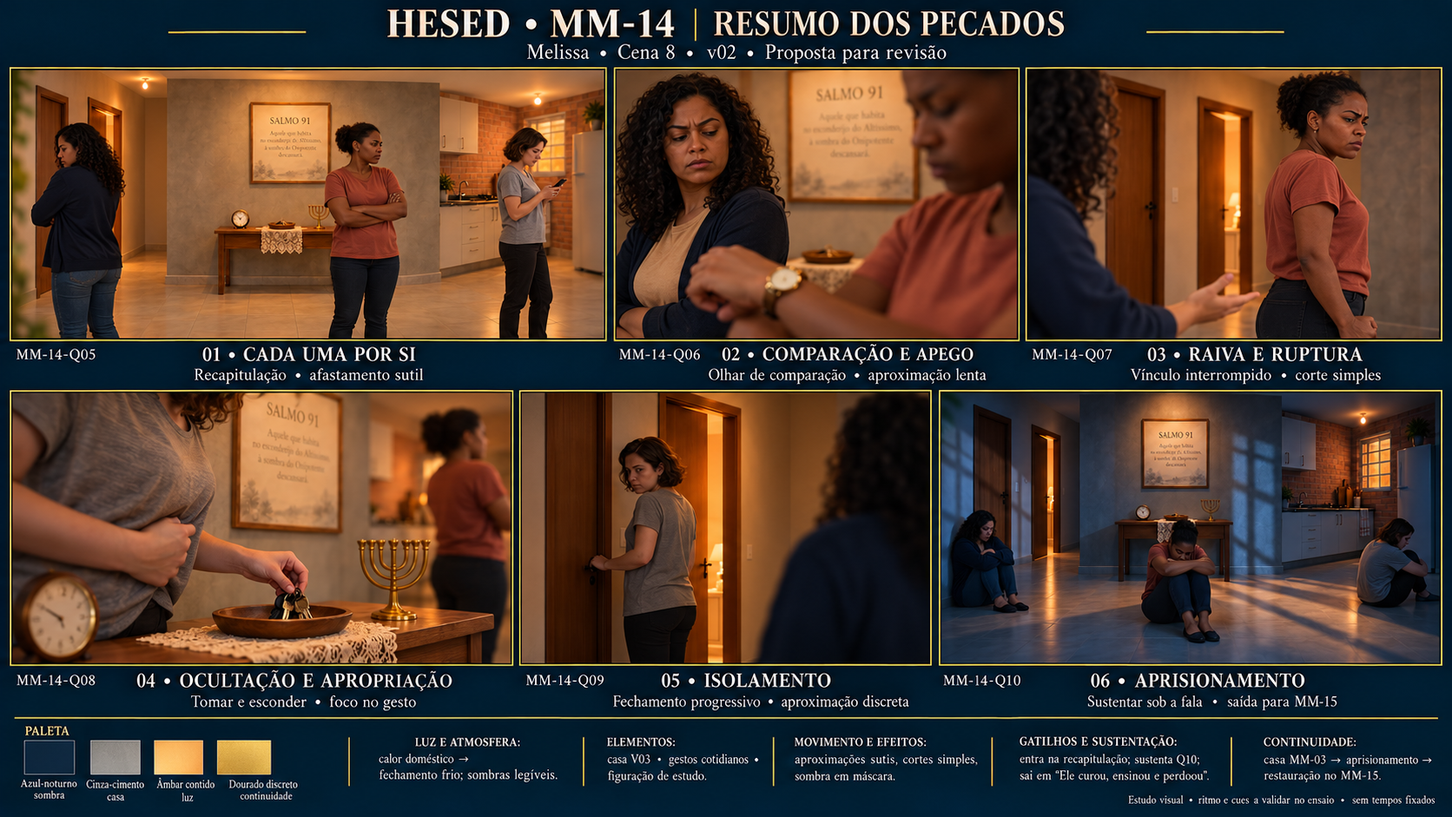
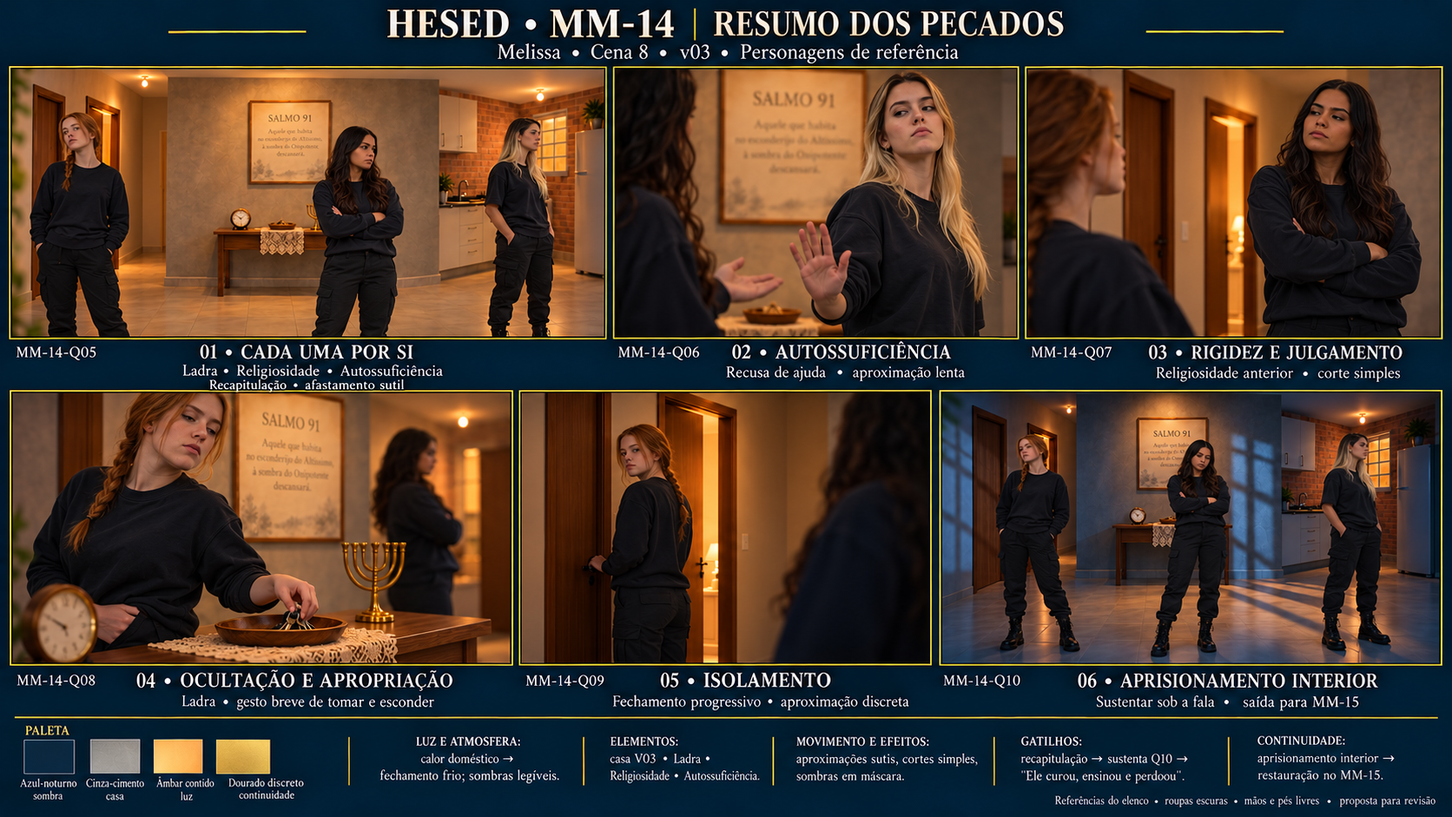
Atualiza MM-14 com referencias das tres personagens sem contencao

diff --git a/storyboards/briefings-dos-quadros.md b/storyboards/briefings-dos-quadros.md
@@ -878,6 +878,20 @@ Os prompts abaixo já repetem a instrução de imagem limpa; ao levá-los à fer
 
 ## MM-14 · Reformulação v02 · seis quadros · 24/10/2026
 
+### Atualização vigente · v03 · personagens de referência · D-45
+
+**Consulta prévia:** guia de construção e os seis briefings Q05–Q10 abaixo, casa V03, briefing MM-14, roteiro Cena 8, Bíblia §§1.4/3/5.2 e alinhamento das fontes. Mantidos função, gatilhos, paleta, cenário, controle por fala e entrega MM-15. A v02 recebeu comentário positivo parcial e pedido de troca das figuras; não há aprovação integral presumida.
+
+**Referências recebidas:** quatro imagens no chat, sem caminhos locais ou nomes de arquivo acessíveis nesta etapa. O usuário identifica o retrato 1 como Ladra (ruiva), 2 como Religiosidade (cabelo longo escuro), 3 como Autossuficiência (loira). Retratos regem rosto/cabelo; imagem coletiva rege roupa, corpo/biotipo e altura relativa. Não inventar medidas. A quarta imagem NÃO fornece cenário ou objetos de contenção. Mãos e pés sempre livres, sem algemas ou correntes, na casa V03. Figurino escuro conforme pedido atual substitui a proposta genérica de roupas da v02.
+
+**Função/palco/telão:** recapitulação simbólica da condição anterior; a conversa atual segue no palco. Personagens no telão agora expressamente solicitadas pelo usuário. Não transferir a postura moralista da lembrança para a narradora atual quebrantada.
+
+**Revisão dos seis briefings antes de gerar:** Q05 preserva plano geral e afastamento, agora com Ladra à esquerda, Religiosidade ao centro e Autossuficiência à direita. Q06 passa de comparação/relógio a **Autossuficiência**, em plano médio da loira recusando ajuda com palma aberta e queixo elevado. Q07 passa de raiva a **Rigidez e julgamento**, Religiosidade de braços cruzados e postura moralista contida como memória anterior, sem confundir com Ódio. Q08 mantém ocultação/apropriação, agora protagonizada pela Ladra ruiva retirando chaves da bandejinha; incluir rosto no plano para reconhecimento. Q09 mantém corte de contato na porta, agora pela Ladra. Q10 conserva o fechamento frio e as três separadas na casa, porém **em pé, mãos e pés livres**, sem recolhimento no chão ou prisão literal; título **Aprisionamento interior**. Mesmos IDs, ordem e técnicas de animação da v02; gestos são propostas e não falas adicionais ao roteiro.
+
+**Composição/luz/continuidade/restrições comuns:** conservar a geografia V03 e objetos do aparador, luz quente → fria com sombras legíveis, rostos/roupa/altura/biotipo consistentes entre planos; sem cenário de prisão, contenção, violência, novas personagens ou restauração antecipada. No Q10, sombras arquitetônicas simbólicas, não barras. Não retratar sofrimento isoladamente como pecado. Bases individuais limpas, animação e tempos continuam pendentes.
+
+**Prompt efetivo preparado:** [prompt-prancha-v03.txt](MM-14/prompt-prancha-v03.txt). Ferramenta image_gen.imagegen, fundo opaco, cinco imagens recentes para abranger a v02 e as quatro referências enviadas; sem combinar referência por caminho local. **Resultado v03:** [prancha corrente](<MM-14/STB MM14.png>), PNG 1672 × 941, 2063684 bytes, original `/workspace/generated_images/exec-d38ba494-cb04-44a3-a5c3-2edd81524d9e.png`. Chamada efetiva com `num_last_images_to_include=5`, fundo opaco, sem referência por caminho local. Referências realmente usadas: v02 + três retratos e coletiva do chat. **Inspeção:** seis quadros; roupas escuras e rostos/cabelos correspondentes às referências; sem algemas/correntes; Q10 em pé na casa. Fidelidade fina de rosto e altura depende de revisão do usuário, sem medidas reais fornecidas; algumas mãos ficam nos bolsos; leitura de chaves permanece simbólica/ambígua. Sem aprovação presumida, animação, bases individuais ou teste LED. Registro aplicável a Q05–Q10; v02 arquivada em historico/v02 sem alterar bytes. As descrições v02 abaixo permanecem histórico do desenvolvimento; esta atualização prevalece no elenco, figurino e ações especificadas.
+
 **Pedido confirmado (D-44):** refazer do zero, relendo briefing e roteiro, ampliar de quatro para seis quadros. A v01 continua recusada. Sua arte, elenco e cenário não são referências da v02. O pedido autoriza a reformulação; não aprova antecipadamente as escolhas abaixo.
 
 **Função visual:** montagem curta simbólica sob fala variável. **Palco:** Religiosidade e demais atrizes conduzem a conversa na casa física. **Telão:** gestos cotidianos sintetizam comportamento destrutivo e fechamento; figuras humanas opcionais pelo briefing, adotadas como proposta de estudo, sem duplicar a conversa nem exigir filmagem das dez atrizes.
@@ -906,7 +920,7 @@ Os prompts abaixo já repetem a instrução de imagem limpa; ao levá-los à fer
 - **Prompt da imagem:** trecho correspondente de [prompt-prancha-v02.txt](MM-14/prompt-prancha-v02.txt), com contrato comum; bases individuais exigem prompt limpo e piloto verificado.
 - **Referências usadas:** casa V03 acima, além das fontes textuais; nenhum retrato de elenco.
 - **Tempo:** a ajustar à fala e ao ensaio; sem duração medida.
-- **Arquivo/versão/feedback:** incluído na [prancha v02](<MM-14/STB MM14.png>), PNG 1672 × 941, 2.043.020 bytes; inspeção e limitações no registro abaixo. Base individual não produzida.
+- **Arquivo/versão/feedback:** incluído na [prancha v02](<MM-14/historico/v02/STB MM14.png>), PNG 1672 × 941, 2.043.020 bytes; inspeção e limitações no registro abaixo. Base individual não produzida.
 
 ### MM-14-Q06 · Comparação e apego
 
@@ -920,7 +934,7 @@ Os prompts abaixo já repetem a instrução de imagem limpa; ao levá-los à fer
 - **Prompt da imagem:** trecho correspondente de [prompt-prancha-v02.txt](MM-14/prompt-prancha-v02.txt), com contrato comum; bases individuais exigem prompt limpo e piloto verificado.
 - **Referências usadas:** casa V03 acima, além das fontes textuais; nenhum retrato de elenco.
 - **Tempo:** a ajustar à fala e ao ensaio; sem duração medida.
-- **Arquivo/versão/feedback:** incluído na [prancha v02](<MM-14/STB MM14.png>), PNG 1672 × 941, 2.043.020 bytes; inspeção e limitações no registro abaixo. Base individual não produzida.
+- **Arquivo/versão/feedback:** incluído na [prancha v02](<MM-14/historico/v02/STB MM14.png>), PNG 1672 × 941, 2.043.020 bytes; inspeção e limitações no registro abaixo. Base individual não produzida.
 
 ### MM-14-Q07 · Raiva e ruptura
 
@@ -934,7 +948,7 @@ Os prompts abaixo já repetem a instrução de imagem limpa; ao levá-los à fer
 - **Prompt da imagem:** trecho correspondente de [prompt-prancha-v02.txt](MM-14/prompt-prancha-v02.txt), com contrato comum; bases individuais exigem prompt limpo e piloto verificado.
 - **Referências usadas:** casa V03 acima, além das fontes textuais; nenhum retrato de elenco.
 - **Tempo:** a ajustar à fala e ao ensaio; sem duração medida.
-- **Arquivo/versão/feedback:** incluído na [prancha v02](<MM-14/STB MM14.png>), PNG 1672 × 941, 2.043.020 bytes; inspeção e limitações no registro abaixo. Base individual não produzida.
+- **Arquivo/versão/feedback:** incluído na [prancha v02](<MM-14/historico/v02/STB MM14.png>), PNG 1672 × 941, 2.043.020 bytes; inspeção e limitações no registro abaixo. Base individual não produzida.
 
 ### MM-14-Q08 · Ocultação e apropriação
 
@@ -948,7 +962,7 @@ Os prompts abaixo já repetem a instrução de imagem limpa; ao levá-los à fer
 - **Prompt da imagem:** trecho correspondente de [prompt-prancha-v02.txt](MM-14/prompt-prancha-v02.txt), com contrato comum; bases individuais exigem prompt limpo e piloto verificado.
 - **Referências usadas:** casa V03 acima, além das fontes textuais; nenhum retrato de elenco.
 - **Tempo:** a ajustar à fala e ao ensaio; sem duração medida.
-- **Arquivo/versão/feedback:** incluído na [prancha v02](<MM-14/STB MM14.png>), PNG 1672 × 941, 2.043.020 bytes; inspeção e limitações no registro abaixo. Base individual não produzida.
+- **Arquivo/versão/feedback:** incluído na [prancha v02](<MM-14/historico/v02/STB MM14.png>), PNG 1672 × 941, 2.043.020 bytes; inspeção e limitações no registro abaixo. Base individual não produzida.
 
 ### MM-14-Q09 · Isolamento
 
@@ -962,7 +976,7 @@ Os prompts abaixo já repetem a instrução de imagem limpa; ao levá-los à fer
 - **Prompt da imagem:** trecho correspondente de [prompt-prancha-v02.txt](MM-14/prompt-prancha-v02.txt), com contrato comum; bases individuais exigem prompt limpo e piloto verificado.
 - **Referências usadas:** casa V03 acima, além das fontes textuais; nenhum retrato de elenco.
 - **Tempo:** a ajustar à fala e ao ensaio; sem duração medida.
-- **Arquivo/versão/feedback:** incluído na [prancha v02](<MM-14/STB MM14.png>), PNG 1672 × 941, 2.043.020 bytes; inspeção e limitações no registro abaixo. Base individual não produzida.
+- **Arquivo/versão/feedback:** incluído na [prancha v02](<MM-14/historico/v02/STB MM14.png>), PNG 1672 × 941, 2.043.020 bytes; inspeção e limitações no registro abaixo. Base individual não produzida.
 
 ### MM-14-Q10 · Aprisionamento
 
@@ -976,14 +990,14 @@ Os prompts abaixo já repetem a instrução de imagem limpa; ao levá-los à fer
 - **Prompt da imagem:** trecho correspondente de [prompt-prancha-v02.txt](MM-14/prompt-prancha-v02.txt), com contrato comum; bases individuais exigem prompt limpo e piloto verificado.
 - **Referências usadas:** casa V03 acima, além das fontes textuais; nenhum retrato de elenco.
 - **Tempo:** a ajustar à fala e ao ensaio; sem duração medida.
-- **Arquivo/versão/feedback:** incluído na [prancha v02](<MM-14/STB MM14.png>), PNG 1672 × 941, 2.043.020 bytes; inspeção e limitações no registro abaixo. Base individual não produzida.
+- **Arquivo/versão/feedback:** incluído na [prancha v02](<MM-14/historico/v02/STB MM14.png>), PNG 1672 × 941, 2.043.020 bytes; inspeção e limitações no registro abaixo. Base individual não produzida.
 
 ### Registro de geração · MM-14 v02
 
 - **Data/executor:** 24/10/2026 · Codex, a pedido do usuário.
 - **Entrega:** prancha de planejamento dos seis estados Q05–Q10, não vídeo nem bases individuais.
 - **Ferramenta planejada:** image_gen.imagegen, fundo opaco, referência local da casa V03; prompt integral salvo antes da chamada.
-- **Resultado real:** [STB MM14.png](<MM-14/STB MM14.png>), PNG 1672 × 941, 2.043.020 bytes. Original preservado em `/workspace/generated_images/exec-c3d42474-93b9-4264-9b6f-da54b5fa9c29.png`; cópia nativa no repositório, sem conversão. Não é 4K nem base individual.
+- **Resultado real:** [STB MM14.png](<MM-14/historico/v02/STB MM14.png>), PNG 1672 × 941, 2.043.020 bytes. Original preservado em `/workspace/generated_images/exec-c3d42474-93b9-4264-9b6f-da54b5fa9c29.png`; cópia nativa no repositório, sem conversão. Não é 4K nem base individual.
 - **Chamada efetiva:** `image_gen.imagegen`, `transparent_background=false`, `referenced_image_paths=["/workspace/Musical-Hesed-GET/storyboards/MM-03/STB MM03.jpg"]`; prompt integral em [prompt-prancha-v02.txt](MM-14/prompt-prancha-v02.txt), sem a prancha recusada como referência.
 - **Inspeção visual pelo Codex:** seis painéis, IDs Q05–Q10 e rótulos editoriais 01–06 corretos; paleta com amostras, luz, elementos, movimento, gatilhos e continuidade legíveis. Casa e três figurinos reconhecíveis; progressão quente → fria, sem correntes/grades reais. Q06 enfatiza olhar para relógio de outra pessoa, sem reproduzir exatamente o gesto de segurar o próprio pulso. Q09 mostra olhar de volta antes do fechamento. Q10 usa três mulheres sentadas recolhidas, solução gerada que precisa ser lida junto da progressão de ações; não interpretar sofrimento isoladamente como pecado. Luzes quentes residuais e pequenas diferenças de escala/arquitetura exigem fixar base única antes de animação definitiva; esta prancha não comprova continuidade métrica.
 - **Leitura simbólica a revisar:** tirar chaves de bandeja doméstica é ambíguo sem contexto; o quadro propõe tomar/ocultar, não comprova furto. A leitura à distância e o contraste com MM-15 precisam de direção e ensaio.

diff --git a/storyboards/MM-14/README.md b/storyboards/MM-14/README.md
@@ -1,10 +1,10 @@
 # Storyboard · MM-14 · Resumo dos pecados
 
-**v02 · seis quadros · 24/10/2026 · proposta para revisão (D-44).** Refeito do zero após releitura do briefing, roteiro e Bíblia de Produção, com a casa V03 como referência visual. A v01 permanece recusada e não foi usada como referência artística.
+**v03 · seis quadros · 24/10/2026 · proposta para revisão (D-44/D-45).** Substitui a figuração genérica da v02 por Ladra, Religiosidade e Autossuficiência com as referências enviadas pelo usuário. A imagem coletiva na prisão serve somente à roupa, corpo e altura: a montagem ocorre na casa V03, com mãos e pés livres, sem algemas ou correntes.
 
-![MM-14 v02 — seis quadros](<STB MM14.png>)
+![MM-14 v03 — personagens de referência](<STB MM14.png>)
 
-[Prancha nativa](<STB MM14.png>) · [Prompt efetivo](prompt-prancha-v02.txt) · [Contrato por quadro e inspeção](../briefings-dos-quadros.md#mm-14--reformulação-v02--seis-quadros--24102026)
+[Prancha nativa](<STB MM14.png>) · [Prompt efetivo](prompt-prancha-v03.txt) · [Contrato por quadro e inspeção](../briefings-dos-quadros.md#mm-14--reformulação-v02--seis-quadros--24102026)
 
 | Campo | Definição |
 | --- | --- |
@@ -23,12 +23,12 @@ Os rótulos 01–06 indicam a ordem desta prancha. Para preservar o histórico, 
 
 | Ordem / ID | Imagem e função | Movimento / operação proposta |
 | --- | --- | --- |
-| 01 · MM-14-Q05 | Cada uma por si: três mulheres genéricas na mesma casa, sem contato entre si | Aproximação sutil na recapitulação |
-| 02 · MM-14-Q06 | Comparação e apego: olhar dirigido ao relógio de outra pessoa | Aproximação lenta, sem glamour do objeto |
-| 03 · MM-14-Q07 | Raiva e ruptura: punho contido e recusa de uma mão aberta | Corte simples; sem agressão |
-| 04 · MM-14-Q08 | Ocultação e apropriação: tomar chaves da bandeja e esconder o gesto | Foco no gesto; metáfora a revisar, sem afirmar furto inequívoco |
-| 05 · MM-14-Q09 | Isolamento: corpo na porta, interrompendo contato | Aproximação discreta; porta ainda entreaberta |
-| 06 · MM-14-Q10 | Aprisionamento: figuras separadas, sombras alongadas na casa | Sustentar sob a fala intermediária; sair pelo gatilho para MM-15 |
+| 01 · MM-14-Q05 | Cada uma por si: Ladra, Religiosidade e Autossuficiência na mesma casa, sem contato entre si | Aproximação sutil na recapitulação |
+| 02 · MM-14-Q06 | Autossuficiência: a personagem loira recusa ajuda com a palma aberta | Aproximação lenta, gesto de independência orgulhosa |
+| 03 · MM-14-Q07 | Rigidez e julgamento: Religiosidade de braços cruzados, lembrada em sua postura anterior | Corte simples; sem agressão ou confusão com a narradora atual |
+| 04 · MM-14-Q08 | Ocultação e apropriação: Ladra ruiva toma chaves da bandeja | Foco no gesto; metáfora a revisar, sem afirmar furto inequívoco |
+| 05 · MM-14-Q09 | Isolamento: Ladra junto à porta, interrompendo contato | Aproximação discreta; porta ainda entreaberta |
+| 06 · MM-14-Q10 | Aprisionamento interior: as três em pé, livres fisicamente, sombras alongadas na casa | Sustentar sob a fala intermediária; sair pelo gatilho para MM-15 |
 
 Não prolongar a fala para acomodar seis quadros. A duração e os cortes serão ajustados no ensaio. Q10 sustenta inclusive a menção a Jesus bebê, sem iniciar outra sequência ou antecipar restauração.
 
@@ -37,18 +37,20 @@ Não prolongar a fala para acomodar seis quadros. A duração e os cortes serão
 - **Paleta:** azul-noturno nas sombras, cinza-cimento na casa, âmbar contido na luz e dourado discreto nos objetos; amostras visíveis na prancha.
 - **Luz/atmosfera:** calor doméstico inicial → fechamento frio, com leitura nas sombras e calor residual. A restauração pertence à MM-15.
 - **Elementos:** casa V03, duas portas à esquerda, aparador central e copa à direita; relógio/bandejinha sobre renda/menorá preservados. Sem mesa ou sofá novos no LED. Salmo 91 e menorá são continuidade doméstica, sem associação à culpa.
-- **Figuração:** três mulheres adultas genéricas de estudo; identidade e figurino não aprovados. A conversa e as atrizes permanecem no palco; não se presume filmagem ou retrato do elenco.
+- **Personagens:** retrato 1 = Ladra ruiva; retrato 2 = Religiosidade de cabelos longos escuros; retrato 3 = Autossuficiência loira. Rostos conforme retratos; roupas escuras, biotipo e altura conforme imagem coletiva. Sem cenário prisional ou contenção. A conversa atual permanece no palco; os quadros representam a condição anterior recapitulada, sem filmagem de elenco realizada.
 - **Movimento/efeitos:** aproximações leves, cortes simples e máscaras de sombra; animação e loop final ainda não executados ou testados.
 - **Costura:** alinhar com Lucas o último estado, cor e velocidade antes da produção de MM-15; primeiro frame de MM-15 não fornecido.
 
 ## Registro e revisão
 
-Gerada por `image_gen.imagegen` usando somente a [casa V03](<../MM-03/STB MM03.jpg>) como referência visual e o prompt salvo. PNG nativo **1672 × 941**, **2.043.020 bytes**. É prancha de planejamento, não base 4K ou vídeo. Original da ferramenta preservado em `/workspace/generated_images/exec-c3d42474-93b9-4264-9b6f-da54b5fa9c29.png`.
+Gerada por `image_gen.imagegen`, com as cinco imagens recentes do chat (prancha v02 e quatro referências do usuário), `num_last_images_to_include=5`, fundo opaco e [prompt efetivo](prompt-prancha-v03.txt). As referências enviadas estão no chat, sem caminhos locais disponíveis. PNG nativo **1672 × 941**, **2,063,684 bytes**. Não é base individual 4K ou vídeo. Original preservado em `/workspace/generated_images/exec-d38ba494-cb04-44a3-a5c3-2edd81524d9e.png`.
 
-Inspeção pelo Codex: seis painéis distintos, IDs e blocos de direção legíveis, figurinos reconhecíveis e fechamento de cor visível. Pequenas diferenças arquitetônicas e de escala precisam de base única na produção definitiva. Q06/Q09 variam os gestos previstos; Q08 tem leitura simbólica ambígua; Q10 mostra recolhimento que deve ser entendido no arco de ações, sem tratar sofrimento ou solidão por si sós como pecado. Conferir esses pontos com a direção e no telão.
+Inspeção pelo Codex: seis painéis com as três personagens, cabelos/rostos reconhecíveis em relação às referências, roupa escura consistente e ausência de algemas/correntes. Q10 mostra as três em pé, botas sem contenção e sombras na casa; Q06 recusa de ajuda, Q07 postura rígida, Q08 gesto da Ladra. As alturas relativas e a fidelidade dos rostos precisam da avaliação do usuário; uma prancha gerada não comprova medidas corporais. Alguns enquadramentos ocultam mãos nos bolsos, sem contenção visível. A leitura simbólica de retirar chaves continua ambígua sem contexto. Conferir continuidade arquitetônica nas bases definitivas e cor/cues com Lucas.
 
 Sem bases individuais, alpha, envio ao Drive ou teste LED. P-01/P-13/P-15 continuam abertas. Avisar Melissa e Lucas sobre a nova proposta para alinhar a passagem; nenhuma mensagem enviada pelo assistente.
 
-## Histórico recusado
+## Histórico
+
+[Prancha v02](<historico/v02/STB MM14.png>) · [Ficha v02](historico-v02.md), preservadas após comentário positivo parcial e pedido de troca de personagens, sem aprovação integral.
 
 [Prancha v01](<historico/v01/STB MM14.jpg>) preservada sem alterar os bytes · [Ficha histórica](historico-v01.md) · [Prompt v01](prompt-prancha-v01.txt). Não usar como referência de casa, elenco ou próxima revisão. A autorização de refazer não constitui aprovação da v02.

diff --git a/storyboards/MM-14/historico-v02.md b/storyboards/MM-14/historico-v02.md
@@ -1,0 +1,54 @@
+# Storyboard · MM-14 · Resumo dos pecados
+
+**v02 · seis quadros · 24/10/2026 · proposta para revisão (D-44).** Refeito do zero após releitura do briefing, roteiro e Bíblia de Produção, com a casa V03 como referência visual. A v01 permanece recusada e não foi usada como referência artística.
+
+![MM-14 v02 — seis quadros](<historico/v02/STB MM14.png>)
+
+[Prancha nativa](<historico/v02/STB MM14.png>) · [Prompt efetivo](prompt-prancha-v02.txt) · [Contrato por quadro e inspeção](../briefings-dos-quadros.md#mm-14--reformulação-v02--seis-quadros--24102026)
+
+| Campo | Definição |
+| --- | --- |
+| Responsável | Melissa |
+| Cena / função | 8 · Bloco IV · montagem curta simbólica dos pecados |
+| Controle | Fala variável; sem música própria, segundos ou forma de onda |
+| Entrada proposta | “Cada uma de nós estava vivendo a sua vida da forma que queria”; ênfase em “nos atolamos em nossos pecados e nos aprisionamos” |
+| Recebe de | Frame/fornecedor de entrada não recebido; casa MM-03/V03 é referência ambiental. Retornos/cues seguem P-15 |
+| Entrega para | MM-15/Lucas: contraste aprisionamento → restauração, ritmo e tratamento de cor |
+| Saída | “Ele curou, ensinou e perdoou as pessoas” |
+| Situação | Estudo visual entregue; aprovação artística, alpha e teste LED pendentes |
+
+## Seis estados da montagem
+
+Os rótulos 01–06 indicam a ordem desta prancha. Para preservar o histórico, os antigos IDs Q01–Q04 ficam fora de uso; a reformulação usa novos IDs Q05–Q10.
+
+| Ordem / ID | Imagem e função | Movimento / operação proposta |
+| --- | --- | --- |
+| 01 · MM-14-Q05 | Cada uma por si: três mulheres genéricas na mesma casa, sem contato entre si | Aproximação sutil na recapitulação |
+| 02 · MM-14-Q06 | Comparação e apego: olhar dirigido ao relógio de outra pessoa | Aproximação lenta, sem glamour do objeto |
+| 03 · MM-14-Q07 | Raiva e ruptura: punho contido e recusa de uma mão aberta | Corte simples; sem agressão |
+| 04 · MM-14-Q08 | Ocultação e apropriação: tomar chaves da bandeja e esconder o gesto | Foco no gesto; metáfora a revisar, sem afirmar furto inequívoco |
+| 05 · MM-14-Q09 | Isolamento: corpo na porta, interrompendo contato | Aproximação discreta; porta ainda entreaberta |
+| 06 · MM-14-Q10 | Aprisionamento: figuras separadas, sombras alongadas na casa | Sustentar sob a fala intermediária; sair pelo gatilho para MM-15 |
+
+Não prolongar a fala para acomodar seis quadros. A duração e os cortes serão ajustados no ensaio. Q10 sustenta inclusive a menção a Jesus bebê, sem iniciar outra sequência ou antecipar restauração.
+
+## Direção visual e continuidade
+
+- **Paleta:** azul-noturno nas sombras, cinza-cimento na casa, âmbar contido na luz e dourado discreto nos objetos; amostras visíveis na prancha.
+- **Luz/atmosfera:** calor doméstico inicial → fechamento frio, com leitura nas sombras e calor residual. A restauração pertence à MM-15.
+- **Elementos:** casa V03, duas portas à esquerda, aparador central e copa à direita; relógio/bandejinha sobre renda/menorá preservados. Sem mesa ou sofá novos no LED. Salmo 91 e menorá são continuidade doméstica, sem associação à culpa.
+- **Figuração:** três mulheres adultas genéricas de estudo; identidade e figurino não aprovados. A conversa e as atrizes permanecem no palco; não se presume filmagem ou retrato do elenco.
+- **Movimento/efeitos:** aproximações leves, cortes simples e máscaras de sombra; animação e loop final ainda não executados ou testados.
+- **Costura:** alinhar com Lucas o último estado, cor e velocidade antes da produção de MM-15; primeiro frame de MM-15 não fornecido.
+
+## Registro e revisão
+
+Gerada por `image_gen.imagegen` usando somente a [casa V03](<../MM-03/STB MM03.jpg>) como referência visual e o prompt salvo. PNG nativo **1672 × 941**, **2.043.020 bytes**. É prancha de planejamento, não base 4K ou vídeo. Original da ferramenta preservado em `/workspace/generated_images/exec-c3d42474-93b9-4264-9b6f-da54b5fa9c29.png`.
+
+Inspeção pelo Codex: seis painéis distintos, IDs e blocos de direção legíveis, figurinos reconhecíveis e fechamento de cor visível. Pequenas diferenças arquitetônicas e de escala precisam de base única na produção definitiva. Q06/Q09 variam os gestos previstos; Q08 tem leitura simbólica ambígua; Q10 mostra recolhimento que deve ser entendido no arco de ações, sem tratar sofrimento ou solidão por si sós como pecado. Conferir esses pontos com a direção e no telão.
+
+Sem bases individuais, alpha, envio ao Drive ou teste LED. P-01/P-13/P-15 continuam abertas. Avisar Melissa e Lucas sobre a nova proposta para alinhar a passagem; nenhuma mensagem enviada pelo assistente.
+
+## Histórico recusado
+
+[Prancha v01](<historico/v01/STB MM14.jpg>) preservada sem alterar os bytes · [Ficha histórica](historico-v01.md) · [Prompt v01](prompt-prancha-v01.txt). Não usar como referência de casa, elenco ou próxima revisão. A autorização de refazer não constitui aprovação da v02.

diff --git a/docs/decisoes.md b/docs/decisoes.md
@@ -6,6 +6,7 @@ Tudo que foi decidido e muda como alguém trabalha. Se não está aqui, não foi
 
 | Código | Data | Decisão | Quem decidiu | Afeta | Situação |
 | --- | --- | --- | --- | --- | --- |
+| D-45 | 24/10/2026 | Usuário fornece quatro imagens e determina aguardar todas antes de produzir MM-14. Identifica os retratos, na ordem: Ladra, Religiosidade e Autossuficiência. Imagem coletiva na prisão serve apenas à referência de roupa, corpo/biotipo e altura; não reproduzir cenário prisional, algemas nas mãos ou correntes nos pés, pois estão livres. Atualizar os seis quadros com essas referências. O elogio parcial à v02 não constitui aprovação integral; v03 segue para revisão. | Usuário nesta conversa | Melissa/MM-14 e continuidade do elenco | 🟢 |
 | D-44 | 24/10/2026 | Usuário reafirma que MM-14 não correspondeu ao esperado e determina reler briefing/roteiro e refazer do zero, mantendo a lógica da montagem curta e usando seis quadros em vez de quatro. Retoma a reformulação antes adiada em D-03, com casa V03/D-13 como referência. As escolhas visuais da v02 são propostas para revisão, sem aprovação antecipada; preservar aprisionamento → restauração na costura MM-15. | Usuário nesta conversa | Melissa/MM-14, Victor/MM-03 e Lucas/MM-15 | 🟢 |
 | D-43 | 21/10/2026 | Victor aprova expressamente a prévia visual silenciosa V06 da vinheta Cia LUZ/B01B: 15 s, 1920 × 1080, 30 fps e 450 quadros. A versão aprovada usa a logo raster canônica, fade-in desde o preto, redução contínua sem pausa/rebote, impacto que dispara as luzes alternadas, neblina em planos independentes e travelling de câmera através do plano da logo até a penitenciária. Por decisão de Victor, o MP4 não será colocado no repositório nesta etapa: ele fará pessoalmente a inserção da trilha e dos efeitos e depois adicionará o vídeo final. Registrar os aprendizados na skill `ai-filmmaker`; não adicionar áudio nem publicar o render por iniciativa do agente. | Victor nesta conversa | MM-02/B01B, skill ai-filmmaker e futuros motion graphics | 🟢 |
 | D-42 | 21/10/2026 | Victor fornece e canoniza a logo oficial **Cia LUZ** para o repositório e para a retomada da vinheta. Arquivo canônico: `assets/identidade/CIA-LUZ-LOGO-CANONICA.png`, PNG RGBA transparente de 2048 × 768 px, grafia “Cia LUZ”, faces em metal escuro e contornos luminosos vermelho/laranja. A animação deve usar o próprio raster como camada: não redesenhar letras, não digitar o nome com fonte e não reutilizar as propostas anteriores inspiradas visualmente na marca Marvel. Publicar diretamente na main e, depois, retomar a prévia V04 com os panoramas canônicos da prisão. A canonização da logo não aprova a animação ainda não renderizada. | Victor nesta conversa | Identidade Cia LUZ, Victor/MM-01, MM-02/B01B e todos os assistentes | 🟢 |

diff --git a/storyboards/inventario-de-arquivos.md b/storyboards/inventario-de-arquivos.md
@@ -1,6 +1,6 @@
 # Inventário de storyboards e quadros
 
-Conferência atualizada em 24/10/2026 conforme D-40/D-41/D-44. A MM-14 v02 foi acrescentada; v01 recusada preservada em subpasta histórica. Abrange **55 imagens: 15 pranchas completas (incluindo MM-14 v01 histórica), 39 quadros individuais e 1 prancha de conferência**. A auditoria de nomenclatura D-28 renomeou 36 dos 48 arquivos então existentes sem alterar seus bytes; a V06 de MM-01 substituiu a prancha anterior e acrescentou quatro quadros, uma prancha de conferência e o estado inicial apagado.
+Conferência atualizada em 24/10/2026 conforme D-40/D-41/D-44/D-45. MM-14 v03 é a proposta corrente; v01 e v02 preservadas em subpastas históricas. Abrange **56 imagens: 16 pranchas completas (incluindo MM-14 v01/v02 históricas), 39 quadros individuais e 1 prancha de conferência**. A auditoria de nomenclatura D-28 renomeou 36 dos 48 arquivos então existentes sem alterar seus bytes; a V06 de MM-01 substituiu a prancha anterior e acrescentou quatro quadros, uma prancha de conferência e o estado inicial apagado.
 
 As duas pranchas da MM-04, em JPG e PNG, foram mantidas. As quatro pranchas da MM-03 são a composição oficial e suas três variações de luz. O nome novo não muda versão artística ou aprovação; consulte as fichas de cada peça. O inventário descreve o acervo local; a publicação remota depende do push.
 
@@ -46,7 +46,8 @@ As duas pranchas da MM-04, em JPG e PNG, foram mantidas. As quatro pranchas da M
 | Quadro individual | [MM-10/MM10-Q09.png](<MM-10/MM10-Q09.png>) | `MM10-Q9.png` |
 | Prancha | [MM-10/STB MM10.png](<MM-10/STB MM10.png>) | Já estava no padrão |
 | Prancha | [MM-13/STB MM13.png](<MM-13/STB MM13.png>) | Já estava no padrão |
-| Prancha | [MM-14/STB MM14.png](<MM-14/STB MM14.png>) | Nova proposta v02, seis quadros (D-44) |
+| Prancha | [MM-14/STB MM14.png](<MM-14/STB MM14.png>) | Proposta v03 com personagens de referência (D-45) |
+| Prancha histórica | [MM-14/historico/v02/STB MM14.png](<MM-14/historico/v02/STB MM14.png>) | v02, figuração genérica anterior, sem aprovação integral |
 | Prancha histórica recusada | [MM-14/historico/v01/STB MM14.jpg](<MM-14/historico/v01/STB MM14.jpg>) | `STB MM14.jpg`, v01 preservada sem alterar bytes |
 | Prancha | [MM-16D/STB MM16D.png](<MM-16D/STB MM16D.png>) | Já estava no padrão |
 

diff --git a/STATUS.md b/STATUS.md
@@ -1,6 +1,6 @@
 # Status da produção
 
-**Última atualização:** 24/10/2026 · por Codex, a pedido do usuário (MM-14: reformulação v02 em seis quadros para revisão)
+**Última atualização:** 24/10/2026 · por Codex, a pedido do usuário (MM-14: v03 com referências de Ladra, Religiosidade e Autossuficiência)
 
 Cada pessoa atualiza **a própria linha** quando muda de etapa. Na dúvida sobre as etapas, veja [guias/fluxo-de-trabalho.md](guias/fluxo-de-trabalho.md).
 
@@ -23,7 +23,7 @@ Cada pessoa atualiza **a própria linha** quando muda de etapa. Na dúvida sobre
 | MM-11 | Luz do Mundo (playback) | 5 | Isaac | ⬜ | - | Mapear a faixa | P-02 (audio master) |
 | MM-12 | Viagem, cidade e estábulo | 6–7 | Lucas | ⬜ | - | - | - |
 | MM-13 | Noite, estrela, pastores, anjos | 7 | Eduardo | ⬜ | - | - | P-07 (posição musical) |
-| MM-14 | Resumo dos pecados | 8 | Melissa | 🎨 | v02 · 6 quadros · proposta (D-44) | Revisar [nova prancha](<storyboards/MM-14/STB MM14.png>), leitura simbólica e continuidade da casa V03; alinhar MM-15 com Lucas | Cues/integração a validar (P-15) |
+| MM-14 | Resumo dos pecados | 8 | Melissa | 🎨 | v03 · 6 quadros · personagens de referência (D-45) | Revisar [nova prancha](<storyboards/MM-14/STB MM14.png>), rostos/altura/figurino, leitura simbólica e casa V03; alinhar MM-15 com Lucas | Cues/integração a validar (P-15) |
 | MM-15 | Vida e atos de Jesus | 8 | Lucas | ⬜ | - | - | - |
 | MM-16A | Filme final: cegueira → visão | 9 | Melissa | ⬜ | - | - | P-05 (gravar atrizes?) |
 | MM-16B | Filme final: prisão → liberdade | 9 | Lucas | ⬜ | - | - | P-05 |

diff --git a/equipe/melissa.md b/equipe/melissa.md
@@ -50,7 +50,7 @@
 
 ## MM-14 · Resumo dos pecados (montagem curta)
 
-**24/10/2026 · D-44:** [nova prancha v02](<../storyboards/MM-14/STB MM14.png>), refeita do zero em seis quadros com casa V03. Proposta visual para revisão; v01 recusada preservada como histórico. Conferir leitura das metáforas e alinhar último estado com Lucas/MM-15.
+**24/10/2026 · D-44/D-45:** [nova prancha v03](<../storyboards/MM-14/STB MM14.png>), seis quadros na casa V03, agora com Ladra, Religiosidade e Autossuficiência das referências enviadas, roupa escura, sem algemas/correntes. Proposta para revisão; v01/v02 preservadas como histórico. Conferir leitura das metáforas e alinhar último estado com Lucas/MM-15.
 
 | | |
 | --- | --- |
